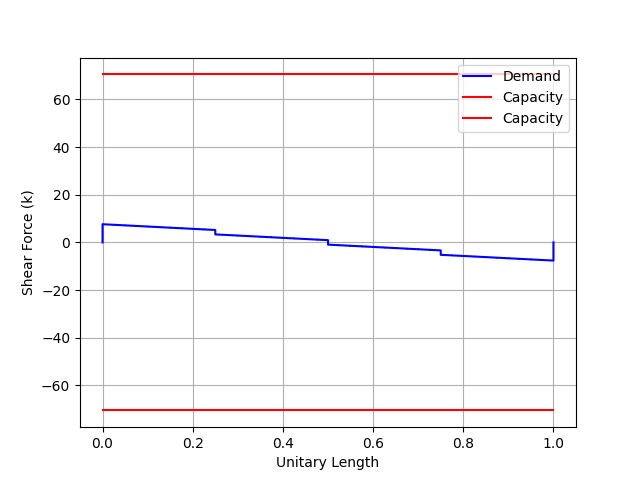
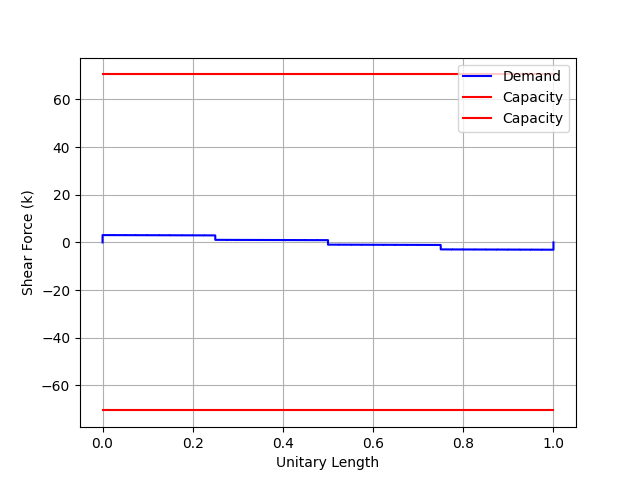
Bug fix for primary member self-weight

Changed region(s): [[0.4688, 0.5, 0.875, 0.5625], [0.1562, 0.4375, 0.4688, 0.5]]

diff --git a/example_reports/pondpy_results.html b/example_reports/pondpy_results.html
@@ -21,12 +21,12 @@
                 <div class="col-9">
                     <div class="row">
                         <div class="col-4">
-                            <small><b>pondpy v0.1.5</b></small><br>
+                            <small><b>pondpy v0.2.2</b></small><br>
                             <small><b>Company:</b> Example Company</small>
                         </div>
                         <div class="col-5">
                             <small><b>Project:</b> 12345-Example Project</small><br>
-                            <small><b>Date:</b> 2024-06-07, 00:52:13</small>
+                            <small><b>Date:</b> 2024-06-10, 16:45:05</small>
                         </div>
                     </div>
                     <div class="row">
@@ -89,10 +89,10 @@
                     </div>
                     <div class="row">
                         <div class="col-6">
-                            <small>The model ran 4 iterations in 1.33 s.</small>
+                            <small>The model ran 5 iterations in 2.21 s.</small>
                         </div>
                         <div class="col-6">
-                            <small><b>Final Impounded Water Weight:</b> 4.72 kips</small>
+                            <small><b>Final Impounded Water Weight:</b> 4.74 kips</small>
                         </div>
                     </div>
                     <br>
@@ -115,13 +115,13 @@
                         </div>
                         <div class="row">
                             <div class="col-4 text-center">
-                                <small>Max Deflection: -0.33 in @ 9.82 ft</small>
+                                <small>Max Deflection: -0.16 in @ 10.0 ft</small>
                             </div>
                             <div class="col-4 text-center">
-                                <small>Max Moment: 42.08 k-ft @ 9.82 ft</small>
+                                <small>Max Moment: 20.06 k-ft @ 10.0 ft</small>
                             </div>
                             <div class="col-4 text-center">
-                                <small>Max Shear: 7.63 k @ 0.0 ft</small>
+                                <small>Max Shear: 3.07 k @ 0.0 ft</small>
                             </div>
                             <br>
                             <div class="row text-center">
@@ -145,18 +145,18 @@
                     
                         <div class="row">
                             <div class="col-12">
-                                <small><b>Primary Member 2:</b> W16X26</small>
+                                <small><b>Primary Member 2:</b> W12X16</small>
                             </div>
                         </div>
                         <div class="row">
                             <div class="col-4 text-center">
-                                <small>Max Deflection: -0.3 in @ 9.82 ft</small>
+                                <small>Max Deflection: -0.35 in @ 10.0 ft</small>
                             </div>
                             <div class="col-4 text-center">
-                                <small>Max Moment: 37.93 k-ft @ 9.82 ft</small>
+                                <small>Max Moment: 15.42 k-ft @ 10.0 ft</small>
                             </div>
                             <div class="col-4 text-center">
-                                <small>Max Shear: 7.0 k @ 19.65 ft</small>
+                                <small>Max Shear: 2.35 k @ 0.0 ft</small>
                             </div>
                             <br>
                             <div class="row text-center">
@@ -191,13 +191,13 @@
                         </div>
                         <div class="row">
                             <div class="col-4 text-center">
-                                <small>Max Deflection: -0.11 in @ 9.82 ft</small>
+                                <small>Max Deflection: -0.11 in @ 10.0 ft</small>
                             </div>
                             <div class="col-4 text-center">
-                                <small>Max Moment: 4.49 k-ft @ 9.33 ft</small>
+                                <small>Max Moment: 4.55 k-ft @ 9.5 ft</small>
                             </div>
                             <div class="col-4 text-center">
-                                <small>Max Shear: 1.0 k @ 0.0 ft</small>
+                                <small>Max Shear: 1.01 k @ 0.0 ft</small>
                             </div>
                         </div>
                         <br>
@@ -226,13 +226,13 @@
                         </div>
                         <div class="row">
                             <div class="col-4 text-center">
-                                <small>Max Deflection: -0.51 in @ 9.82 ft</small>
+                                <small>Max Deflection: -0.52 in @ 10.0 ft</small>
                             </div>
                             <div class="col-4 text-center">
-                                <small>Max Moment: 8.33 k-ft @ 9.33 ft</small>
+                                <small>Max Moment: 8.43 k-ft @ 9.5 ft</small>
                             </div>
                             <div class="col-4 text-center">
-                                <small>Max Shear: 1.85 k @ 0.0 ft</small>
+                                <small>Max Shear: 1.87 k @ 0.0 ft</small>
                             </div>
                         </div>
                         <br>
@@ -261,10 +261,10 @@
                         </div>
                         <div class="row">
                             <div class="col-4 text-center">
-                                <small>Max Deflection: -0.52 in @ 9.82 ft</small>
+                                <small>Max Deflection: -0.52 in @ 10.0 ft</small>
                             </div>
                             <div class="col-4 text-center">
-                                <small>Max Moment: 8.45 k-ft @ 9.33 ft</small>
+                                <small>Max Moment: 8.53 k-ft @ 9.5 ft</small>
                             </div>
                             <div class="col-4 text-center">
                                 <small>Max Shear: 1.88 k @ 0.0 ft</small>
@@ -296,13 +296,13 @@
                         </div>
                         <div class="row">
                             <div class="col-4 text-center">
-                                <small>Max Deflection: -0.51 in @ 9.82 ft</small>
+                                <small>Max Deflection: -0.52 in @ 10.0 ft</small>
                             </div>
                             <div class="col-4 text-center">
-                                <small>Max Moment: 8.33 k-ft @ 9.33 ft</small>
+                                <small>Max Moment: 8.43 k-ft @ 9.5 ft</small>
                             </div>
                             <div class="col-4 text-center">
-                                <small>Max Shear: 1.85 k @ 0.0 ft</small>
+                                <small>Max Shear: 1.87 k @ 0.0 ft</small>
                             </div>
                         </div>
                         <br>
@@ -331,13 +331,13 @@
                         </div>
                         <div class="row">
                             <div class="col-4 text-center">
-                                <small>Max Deflection: -0.11 in @ 9.82 ft</small>
+                                <small>Max Deflection: -0.11 in @ 10.0 ft</small>
                             </div>
                             <div class="col-4 text-center">
-                                <small>Max Moment: 4.49 k-ft @ 9.33 ft</small>
+                                <small>Max Moment: 4.55 k-ft @ 9.5 ft</small>
                             </div>
                             <div class="col-4 text-center">
-                                <small>Max Shear: 1.0 k @ 0.0 ft</small>
+                                <small>Max Shear: 1.01 k @ 0.0 ft</small>
                             </div>
                         </div>
                         <br>
@@ -390,33 +390,33 @@
                                         <tr>
                                             <td scope="row"><small>P - 1</small></td>
                                             <td><small>W16X26</small></td>
-                                            <td><small>42.08</small></td>
+                                            <td><small>20.06</small></td>
                                             <td><small>110.28</small></td>
-                                            <td><small>7.63</small></td>
+                                            <td><small>3.07</small></td>
                                             <td><small>70.51</small></td>
-                                            <td><small>-0.33</small></td>
-                                            <td><small>714.55</small></td>
+                                            <td><small>-0.16</small></td>
+                                            <td><small>1500.0</small></td>
                                         </tr>
                                     
                                         <tr>
                                             <td scope="row"><small>P - 2</small></td>
-                                            <td><small>W16X26</small></td>
-                                            <td><small>37.93</small></td>
-                                            <td><small>110.28</small></td>
-                                            <td><small>7.0</small></td>
-                                            <td><small>70.51</small></td>
-                                            <td><small>-0.3</small></td>
-                                            <td><small>786.0</small></td>
+                                            <td><small>W12X16</small></td>
+                                            <td><small>15.42</small></td>
+                                            <td><small>50.15</small></td>
+                                            <td><small>2.35</small></td>
+                                            <td><small>52.8</small></td>
+                                            <td><small>-0.35</small></td>
+                                            <td><small>685.71</small></td>
                                         </tr>
                                     
                                     
                                         <tr>
                                             <td scope="row"><small>S - 1</small></td>
                                             <td><small>W12X16</small></td>
-                                            <td><small>4.49</small></td>
+                                            <td><small>4.55</small></td>
                                             <td><small>50.15</small></td>
                                             
-                                                <td><small>1.0</small></td>
+                                                <td><small>1.01</small></td>
                                                 <td><small>52.8</small></td>
                                             
                                             <td><small>-0.11</small></td>
@@ -426,20 +426,20 @@
                                         <tr>
                                             <td scope="row"><small>S - 2</small></td>
                                             <td><small>14K1</small></td>
-                                            <td><small>8.33</small></td>
+                                            <td><small>8.43</small></td>
                                             <td><small>14.2</small></td>
                                             
-                                                <td><small>1.85</small></td>
+                                                <td><small>1.87</small></td>
                                                 <td><small>2.84</small></td>
                                             
-                                            <td><small>-0.51</small></td>
-                                            <td><small>470.59</small></td>
+                                            <td><small>-0.52</small></td>
+                                            <td><small>461.54</small></td>
                                         </tr>
                                     
                                         <tr>
                                             <td scope="row"><small>S - 3</small></td>
                                             <td><small>14K1</small></td>
-                                            <td><small>8.45</small></td>
+                                            <td><small>8.53</small></td>
                                             <td><small>14.2</small></td>
                                             
                                                 <td><small>1.88</small></td>
@@ -452,23 +452,23 @@
                                         <tr>
                                             <td scope="row"><small>S - 4</small></td>
                                             <td><small>14K1</small></td>
-                                            <td><small>8.33</small></td>
+                                            <td><small>8.43</small></td>
                                             <td><small>14.2</small></td>
                                             
-                                                <td><small>1.85</small></td>
+                                                <td><small>1.87</small></td>
                                                 <td><small>2.84</small></td>
                                             
-                                            <td><small>-0.51</small></td>
-                                            <td><small>470.59</small></td>
+                                            <td><small>-0.52</small></td>
+                                            <td><small>461.54</small></td>
                                         </tr>
                                     
                                         <tr>
                                             <td scope="row"><small>S - 5</small></td>
                                             <td><small>W12X16</small></td>
-                                            <td><small>4.49</small></td>
+                                            <td><small>4.55</small></td>
                                             <td><small>50.15</small></td>
                                             
-                                                <td><small>1.0</small></td>
+                                                <td><small>1.01</small></td>
                                                 <td><small>52.8</small></td>
                                             
                                             <td><small>-0.11</small></td>

diff --git a/docs/source/conf.py b/docs/source/conf.py
@@ -12,7 +12,7 @@ sys.path.insert(0, pathlib.Path(__file__).parents[2].resolve().as_posix())
 project = 'pondpy'
 copyright = '2024, Matthew Upshaw'
 author = 'Matthew Upshaw'
-release = '0.2.2'
+release = '0.2.3'
 
 # -- General configuration ---------------------------------------------------
 # https://www.sphinx-doc.org/en/master/usage/configuration.html#general-configuration

diff --git a/pondpy/analysis/pond_analysis.py b/pondpy/analysis/pond_analysis.py
@@ -376,7 +376,7 @@ class RoofBayModel:
             # Retrieve self-weight from primary_sw dictionary
             p_sw = self.roof_bay.primary_sw[idx]
             # Add self-weight to the model
-            cur_model.add_beam_dload(p_sw)
+            cur_model.add_beam_dload(p_sw, add_type='replace')
 
             primary_models.append(cur_model)
 
